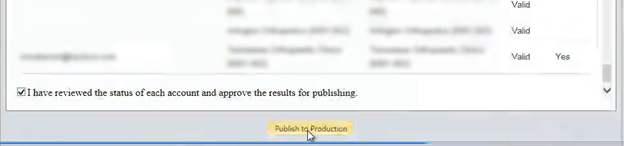
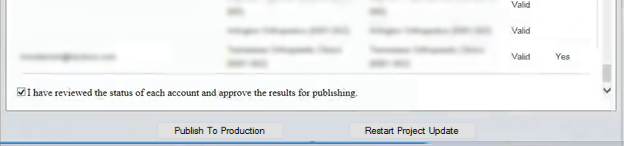
Updated images and user guide document
Former-commit-id: 4288b1db11319bcc5c7bafaaf03efe580eeb8b83

Changed region(s): [[0.274, 0.8219, 0.7612, 0.9863]]

diff --git a/WebApps/MillFrame/UserGuidesMasterVersions/PRM Client Publisher Console User Guide.md b/WebApps/MillFrame/UserGuidesMasterVersions/PRM Client Publisher Console User Guide.md
@@ -131,7 +131,7 @@ Once you check the “review” **check box**, the “Publish to Production” b
 
 ![](Images/PRM_Client_Publisher_Console_User_Guide/image12.png ""){width=100% height=auto}\
 
-At the bottom of the report is the Publish button. Once “Publish to Production” has been clicked, all report information, user information and reduced reports are uploaded to the production server.
+At the bottom of the report is the Publish button. Once “Publish to Production” has been clicked, all report information, user information and reduced reports are uploaded to the production server. If the results need to be reprocessed, click the "Restart Project Update" button.  This button will reset the processed data and allow you to upload a new report.
 
 ![](Images/PRM_Client_Publisher_Console_User_Guide/image11.png ""){width=100% height=auto}\
 
